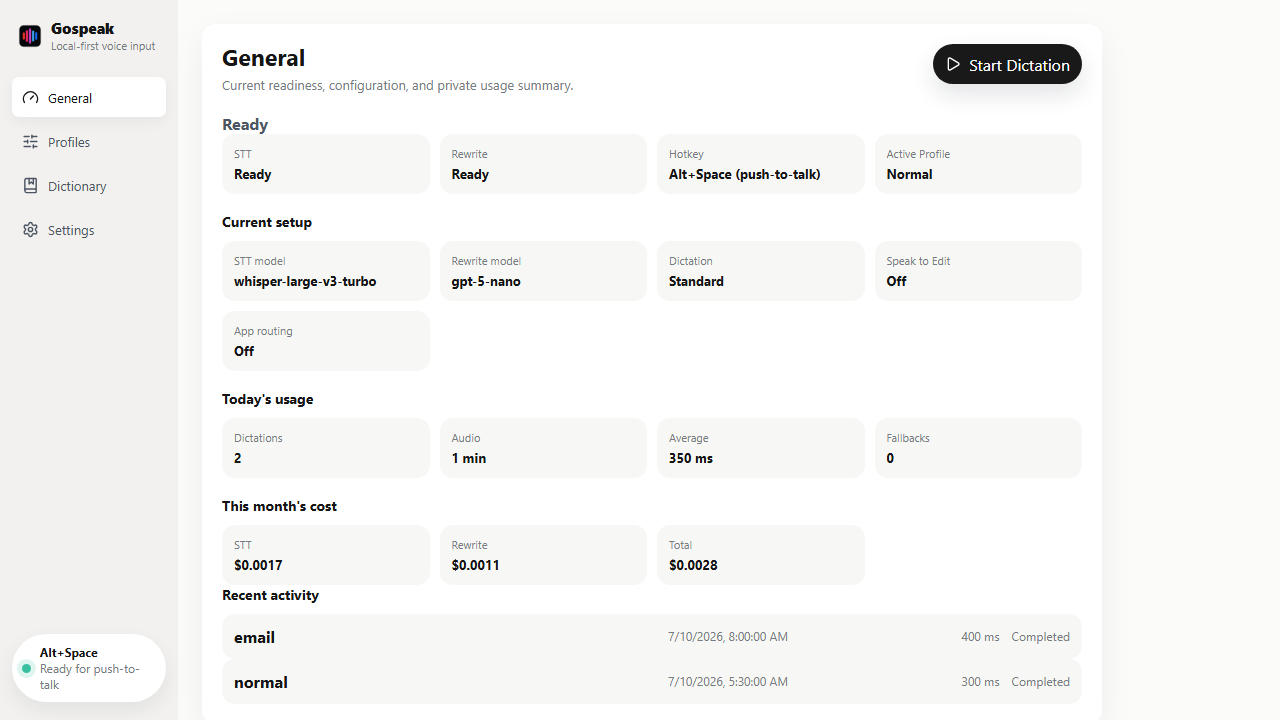
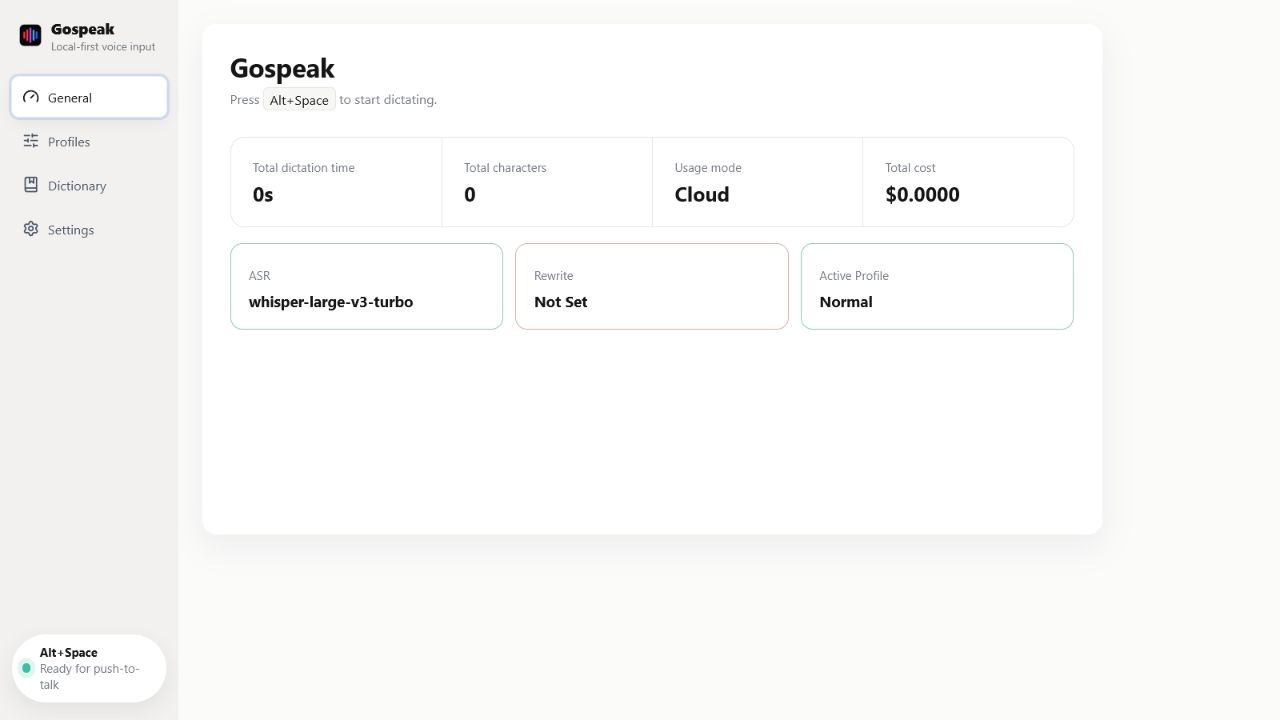
style: refine General dashboard

diff --git a/src/App.css b/src/App.css
@@ -262,6 +262,119 @@ button:disabled {
   box-shadow: 0 12px 34px rgb(17 24 39 / 6%);
 }
 
+.general-page {
+  padding: 28px;
+}
+
+.general-header {
+  margin-bottom: 28px;
+}
+
+.general-header h1 {
+  margin: 0;
+  color: var(--text-strong);
+  font-size: 26px;
+  line-height: 1.15;
+}
+
+.general-header p {
+  margin: 8px 0 0;
+  color: var(--text-muted);
+  font-size: 13px;
+  line-height: 1.45;
+}
+
+.general-header kbd {
+  padding: 2px 6px;
+  border: 1px solid var(--border);
+  border-radius: 5px;
+  background: #f7f7f5;
+  color: var(--text-strong);
+  font: inherit;
+}
+
+.general-metrics {
+  display: grid;
+  grid-template-columns: repeat(4, minmax(0, 1fr));
+  overflow: hidden;
+  border: 1px solid var(--border);
+  border-radius: 14px;
+  background: #ffffff;
+}
+
+.general-metric {
+  min-width: 0;
+  padding: 22px;
+}
+
+.general-metric + .general-metric {
+  border-left: 1px solid var(--border);
+}
+
+.general-metric span,
+.general-metric strong {
+  display: block;
+  overflow-wrap: anywhere;
+}
+
+.general-metric span,
+.general-status-card span {
+  color: var(--text-muted);
+  font-size: 12px;
+}
+
+.general-metric strong {
+  margin-top: 7px;
+  color: var(--text-strong);
+  font-size: 20px;
+  line-height: 1.1;
+}
+
+.general-status-grid {
+  display: grid;
+  grid-template-columns: repeat(3, minmax(0, 1fr));
+  gap: 12px;
+  margin-top: 16px;
+}
+
+.general-status-card {
+  min-width: 0;
+  min-height: 112px;
+  padding: 18px;
+  border: 1px solid;
+  border-radius: 12px;
+  background: #ffffff;
+  text-align: left;
+  transition: box-shadow 160ms ease, transform 160ms ease;
+}
+
+.general-status-card.is-ready {
+  border-color: #8fc9aa;
+}
+
+.general-status-card.is-not-ready {
+  border-color: #e3aaa5;
+}
+
+.general-status-card strong {
+  display: block;
+  margin-top: 8px;
+  color: var(--text-strong);
+  font-size: 15px;
+  line-height: 1.25;
+  overflow-wrap: anywhere;
+}
+
+.general-status-card:hover {
+  transform: translateY(-2px);
+  box-shadow: 0 10px 22px rgb(17 24 39 / 8%);
+}
+
+.general-status-card:focus-visible {
+  outline: 3px solid rgb(59 130 246 / 18%);
+  outline-offset: 2px;
+}
+
 .page-heading,
 .profile-split,
 .summary-grid,
@@ -968,6 +1081,23 @@ pre {
     grid-template-columns: 1fr;
   }
 
+  .general-metrics {
+    grid-template-columns: repeat(2, minmax(0, 1fr));
+  }
+
+  .general-metric:nth-child(3) {
+    border-left: 0;
+    border-top: 1px solid var(--border);
+  }
+
+  .general-metric:nth-child(4) {
+    border-top: 1px solid var(--border);
+  }
+
+  .general-status-grid {
+    grid-template-columns: 1fr;
+  }
+
   .module-panel {
     min-height: auto;
   }
@@ -993,5 +1123,30 @@ pre {
 
   .compact-form .wide-field {
     grid-column: auto;
+  }
+}
+
+@media (max-width: 560px) {
+  .general-page {
+    padding: 20px;
+  }
+
+  .general-metrics {
+    grid-template-columns: 1fr;
+  }
+
+  .general-metric + .general-metric {
+    border-top: 1px solid var(--border);
+    border-left: 0;
+  }
+}
+
+@media (prefers-reduced-motion: reduce) {
+  .general-status-card {
+    transition: none;
+  }
+
+  .general-status-card:hover {
+    transform: none;
   }
 }

diff --git a/src/App.css.test.ts b/src/App.css.test.ts
@@ -53,3 +53,22 @@ describe("Settings CSS contract", () => {
     expect(css).toMatch(/\.profiles-page details > summary\s*\{[^}]*min-height:\s*40px/s);
   });
 });
+
+describe("General dashboard CSS contract", () => {
+  it("uses the approved responsive metric and setup-status layout", () => {
+    expect(css).toMatch(
+      /\.general-metrics\s*\{[^}]*grid-template-columns:\s*repeat\(4, minmax\(0, 1fr\)\)/s,
+    );
+    expect(css).toMatch(/\.general-status-card\.is-ready\s*\{[^}]*border-color:/s);
+    expect(css).toMatch(/\.general-status-card\.is-not-ready\s*\{[^}]*border-color:/s);
+    expect(css).toMatch(
+      /\.general-status-card:hover[^{]*\{[^}]*transform:\s*translateY\(-2px\)/s,
+    );
+    expect(css).toMatch(
+      /@media \(prefers-reduced-motion: reduce\)[\s\S]*\.general-status-card/s,
+    );
+    expect(css).toMatch(
+      /@media \(max-width: 980px\)[\s\S]*\.general-metrics\s*\{[^}]*grid-template-columns:\s*repeat\(2, minmax\(0, 1fr\)\)/s,
+    );
+  });
+});

diff --git a/design-qa.md b/design-qa.md
@@ -1,0 +1,41 @@
+# General Dashboard Design QA
+
+## Evidence
+
+- Source visual truth: `C:\Users\PC\AppData\Local\Temp\codex-clipboard-caa71441-1dee-4dcc-852d-2c3a23b55084.png`.
+- Implementation capture: `artifacts/gospeak-home.png`.
+- Full-view comparison: `C:\Users\PC\AppData\Local\Temp\gospeak-general-design-comparison.png`, reviewed at normalized 720px height.
+- Focused region comparison: not needed; the header, metric surface, and setup cards are readable in the full-view comparison.
+
+## Viewport And Interaction Checks
+
+- `1280x720`, browser-preview ready/missing setup state: ASR and Active Profile render ready borders; Rewrite renders a muted red missing border. No horizontal overflow and no console errors.
+- `900x720`: metrics render in two columns with no horizontal overflow.
+- `390x844`: metrics render in one column, setup cards remain single-column, and no horizontal overflow occurs.
+- ASR and Rewrite navigate to Settings with the Providers tab selected. Active Profile navigates to Profiles.
+- Focus: the in-app Browser confirmed the visible button focus outline. Hover transform and reduced-motion rules are covered by `src/App.css.test.ts`; the Browser pointer-move API did not expose `:hover` state.
+
+## Comparison History
+
+**Findings**
+- [P0] Stale preview server omitted the new General dashboard styles.
+  Evidence: the initial `127.0.0.1:5174` capture showed unstyled metrics and status buttons.
+  Fix: replaced the stale Vite preview process with the worktree Vite dev server, then re-captured the ready/missing state.
+  Post-fix evidence: `artifacts/gospeak-home.png` shows the four-part metric surface, semantic setup borders, and three dashboard cards.
+
+**Resolved Differences**
+- P1: none.
+- P2: none.
+- The SayIt visual's content, icons, and two-by-two metric card arrangement are intentionally adapted to the approved Gospeak sidebar, tokens, four-metric separator surface, and no-custom-SVG constraint.
+
+**Required Fidelity Surfaces**
+- Typography: existing Inter/system Gospeak stack, compact hierarchy, and wrapping remain intact.
+- Spacing and layout rhythm: 28px page/header spacing, 12px status gaps, and responsive grid tracks are stable.
+- Colors and tokens: existing neutral Gospeak tokens are retained; green and muted red borders communicate setup state.
+- Image quality and assets: existing Gospeak brand asset is unchanged; no replacement imagery or generated asset is introduced.
+- Copy and content: existing Gospeak dashboard labels and navigation remain intact.
+
+**Follow-up Polish**
+- P3: none.
+
+final result: passed